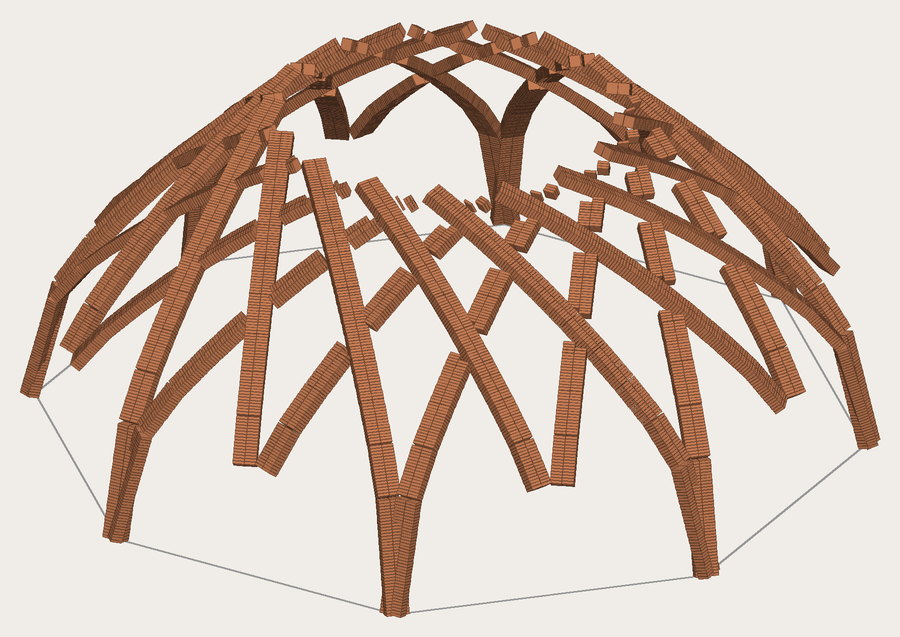
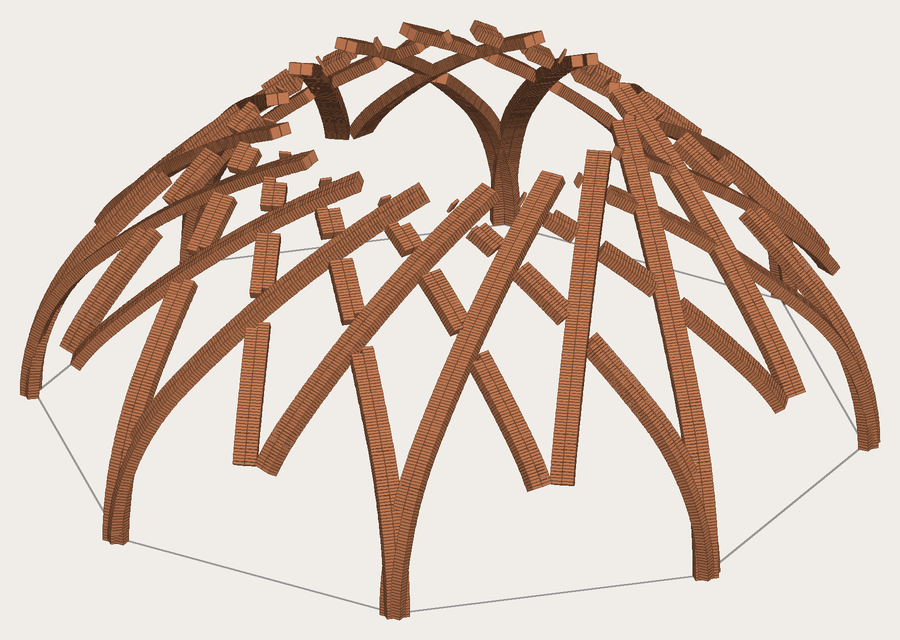
Karbandi bricks: laid on the exact arch (a point every 1 cm, no more straight runs and kinks); crossings woven over/under along each rib like a girih; stranded runs under ~30 cm left out
Claude-Session: https://claude.ai/code/session_01WZz9U86PiQQhB9v6wZTtqs

diff --git a/src/MasonryCore/KarbandiBricks.cs b/src/MasonryCore/KarbandiBricks.cs
@@ -20,6 +20,8 @@ namespace Masonry.Core
         public int Across { get; set; } = 1;
         /// <summary>Pitched ribs: layers of flat bricks (the rib's depth).</summary>
         public int Layers { get; set; } = 2;
+        /// <summary>Crossings alternate over / under along each rib (true), or the lower-numbered rib always passes (false).</summary>
+        public bool Woven { get; set; } = true;
         /// <summary>Joint thickness, mm (gypsum-lime).</summary>
         public double Joint { get; set; } = 8;
     }
@@ -28,6 +30,8 @@ namespace Masonry.Core
     {
         public int Bricks { get; set; }
         public int Mitred { get; set; }
+        /// <summary>Bricks left out because they would be stranded between two cuts.</summary>
+        public int Dropped { get; set; }
         public double RibWidth { get; set; }
         public double RibDepth { get; set; }
         /// <summary>Radial ribs: the joint at the back of the rib where it is most curved (wedge joints), mm.</summary>
@@ -35,7 +39,7 @@ namespace Masonry.Core
 
         public string Describe(Lang lang) => lang == Lang.Fa
             ? L10n.FaDigits($"{Bricks} آجر در تویزهها · مقطع تویزه {RibWidth / 10:0}×{RibDepth / 10:0} سانتیمتر · {Mitred} آجر در محل تقاطع فارسیبُر" + (MaxBackJoint > 0 ? $" · بیشترین درز پشت تویزه {MaxBackJoint:0} میلیمتر" : ""))
-            : $"{Bricks} bricks in the ribs · rib section {RibWidth / 10:0} × {RibDepth / 10:0} cm · {Mitred} bricks mitred at crossings" + (MaxBackJoint > 0 ? $" · widest back joint {MaxBackJoint:0} mm" : "");
+            : $"{Bricks} bricks in the ribs · rib section {RibWidth / 10:0} × {RibDepth / 10:0} cm · {Mitred} bricks mitred at crossings" + (Dropped > 0 ? $" · {Dropped} stranded bricks left out" : "") + (MaxBackJoint > 0 ? $" · widest back joint {MaxBackJoint:0} mm" : "");
     }
 
     /// <summary>
@@ -54,18 +58,20 @@ namespace Masonry.Core
             double width = across * widthUnit + (across - 1) * s.Joint;
             double depth = s.Method == RibMethod.Radial ? f.Length : Math.Max(1, s.Layers) * f.Height + (Math.Max(1, s.Layers) - 1) * s.Joint;
             report.RibWidth = width; report.RibDepth = depth;
-            var ribOf = new List<int>();
+            var ribOf = new List<int>(); var pieceOf = new List<int>(); int pieceId = 0;
 
             for (int ri = 0; ri < k.Ribs.Count; ri++)
             {
                 var rib = k.Ribs[ri];
-                foreach (var piece in rib.Pieces)
+                foreach (var (rt0, rt1) in rib.Ranges)
                 {
+                    pieceId++;
+                    var piece = Karbandi.Sample(k, rib, rt0, rt1, 10);   // the exact arch, a point every 1 cm
                     if (piece.Count < 2) continue;
                     var chord = piece[piece.Count - 1] - piece[0];
                     var w = new Vec3(-chord.Y, chord.X, 0).Unit();          // horizontal, across the rib
                     var inside = (k.Points[rib.A] + k.Points[rib.B]) * 0.5;   // the arch's inside: the middle of its chord, at springing level
-                    var path = new Polyline(Densify(piece, 40));
+                    var path = new Polyline(piece);
                     double L = path.Length;
                     if (s.Method == RibMethod.Radial)
                     {
@@ -85,7 +91,7 @@ namespace Masonry.Core
                                     XAxis = w, YAxis = n, Length = widthUnit, Depth = f.Length, Height = f.Height,
                                     Kind = UnitKind.Header, IsArch = true, Course = i, IndexInCourse = a, U = u, V = ri,
                                 });
-                                ribOf.Add(ri);
+                                ribOf.Add(ri); pieceOf.Add(pieceId);
                             }
                         }
                         // wedge joints: the back of a radial rib opens up where the curve is tight
@@ -112,7 +118,7 @@ namespace Masonry.Core
                                         XAxis = t, YAxis = w, Length = f.Length, Depth = widthUnit, Height = f.Height,
                                         Kind = UnitKind.Stretcher, IsArch = true, Course = layer, IndexInCourse = a, U = u, V = ri,
                                     });
-                                    ribOf.Add(ri);
+                                    ribOf.Add(ri); pieceOf.Add(pieceId);
                                 }
                             }
                         }
@@ -123,11 +129,23 @@ namespace Masonry.Core
             // crossings: the lower-numbered rib stays whole; bricks of the other rib inside it are cut away (mitred joint, K30)
             var keep = Enumerable.Repeat(true, bricks.Count).ToArray();
             double reach = width / 2 + (s.Method == RibMethod.Radial ? f.Height / 2 : f.Length / 2) + s.Joint;   // just past the main rib
+            // woven, like a girih: along each rib its crossings alternate over / under, so every rib passes whole through
+            // about half of them and no piece is left between two cuts in a row
+            var order = new Dictionary<(int rib, KarbandiCrossing x), int>();
+            for (int ri = 0; ri < k.Ribs.Count; ri++)
+            {
+                var rb = k.Ribs[ri]; var dir = rb.To - rb.From; double len2 = Vec3.Dot(dir, dir);
+                var mine = k.Crossings.Where(x => x.RibA == ri || x.RibB == ri)
+                                      .OrderBy(x => Vec3.Dot(new Vec3(x.Point.X, x.Point.Y, rb.From.Z) - rb.From, dir) / Math.Max(1e-9, len2)).ToList();
+                for (int q = 0; q < mine.Count; q++) order[(ri, mine[q])] = q;
+            }
             foreach (var x in k.Crossings)
             {
-                // wall arches always stay whole; otherwise the lower-numbered rib passes
+                // wall arches always stay whole; otherwise over / under alternates (or, mitred, the lower-numbered rib passes)
                 bool wa = k.Ribs[x.RibA].OnWall, wb = k.Ribs[x.RibB].OnWall;
-                int main = wa && !wb ? x.RibA : wb && !wa ? x.RibB : Math.Min(x.RibA, x.RibB);
+                int qa = order.TryGetValue((x.RibA, x), out var oa) ? oa : 0, qb = order.TryGetValue((x.RibB, x), out var ob) ? ob : 0;
+                int main = wa && !wb ? x.RibA : wb && !wa ? x.RibB
+                         : s.Woven ? ((qa + qb) % 2 == 0 ? x.RibA : x.RibB) : Math.Min(x.RibA, x.RibB);
                 int side = main == x.RibA ? x.RibB : x.RibA;
                 var mainDir = Dir(k, main);
                 for (int i = 0; i < bricks.Count; i++)
@@ -137,6 +155,27 @@ namespace Masonry.Core
                     var d = new Vec3(b.Center.X - x.Point.X, b.Center.Y - x.Point.Y, 0);
                     double across2 = Math.Abs(Vec3.Dot(d, new Vec3(-mainDir.Y, mainDir.X, 0)));
                     if (across2 < reach && Math.Abs(b.Center.Z - x.Point.Z) < depth + f.Length) { keep[i] = false; report.Mitred++; }
+                }
+            }
+            // runs of three slices or fewer left between two cuts are not worth building: drop them
+            int minRun = s.Method == RibMethod.Radial ? 6 : 2;
+            double gap = (s.Method == RibMethod.Radial ? f.Height : f.Length) + s.Joint;
+            foreach (var grp in Enumerable.Range(0, bricks.Count).Where(i => keep[i]).GroupBy(i => (pieceOf[i], s.Method == RibMethod.Radial ? 0 : bricks[i].Course)))
+            {
+                var idx = grp.OrderBy(i => bricks[i].U).ToList();
+                if (s.Method == RibMethod.Radial) idx = grp.Where(i => bricks[i].IndexInCourse == 0).OrderBy(i => bricks[i].U).ToList();
+                int st = 0;
+                for (int q = 1; q <= idx.Count; q++)
+                {
+                    if (q < idx.Count && bricks[idx[q]].U - bricks[idx[q - 1]].U < gap * 1.5) continue;
+                    if (q - st < minRun)
+                        for (int z = st; z < q; z++)
+                        {
+                            double u = bricks[idx[z]].U;
+                            for (int i = 0; i < bricks.Count; i++)
+                                if (keep[i] && pieceOf[i] == pieceOf[idx[z]] && Math.Abs(bricks[i].U - u) < 1e-6) { keep[i] = false; report.Dropped++; }
+                        }
+                    st = q;
                 }
             }
             var result = new List<BrickPlacement>();
@@ -155,7 +194,7 @@ namespace Masonry.Core
         /// <summary>Point, tangent and inward normal (towards the arch's inside, i.e. down/in) at arc length u.</summary>
         static (Vec3 p, Vec3 t, Vec3 n) Frame(Polyline path, double u, Vec3 w, Vec3 inside)
         {
-            double e = Math.Min(5, path.Length / 100);
+            double e = Math.Min(15, path.Length / 100);
             var p = path.PointAt(u);
             var t = (path.PointAt(Math.Min(path.Length, u + e)) - path.PointAt(Math.Max(0, u - e))).Unit();
             var n = Vec3.Cross(w, t).Unit();

diff --git a/src/MasonryCore/Karbandi.cs b/src/MasonryCore/Karbandi.cs
@@ -78,6 +78,10 @@ namespace Masonry.Core
         public double Span { get; set; }
         /// <summary>The chord runs along a wall of the base: this rib is the wall arch (tuyzeh in the wall plane).</summary>
         public bool OnWall { get; set; }
+        /// <summary>Chord ends in plan (division points) and the parameter ranges of the built parts along the chord (0..1).</summary>
+        public Vec3 From { get; set; }
+        public Vec3 To { get; set; }
+        public List<(double t0, double t1)> Ranges { get; } = new List<(double, double)>();
         /// <summary>The parts of the rib that are built (inside the base, minus removed rows), in 3D, mm.</summary>
         public List<List<Vec3>> Pieces { get; } = new List<List<Vec3>>();
     }
@@ -290,9 +294,11 @@ namespace Masonry.Core
                     double cutA = k < side1.Count ? side1[k] : t0, cutB = k < side2.Count ? side2[k] : t1;
                     spans = new List<(double, double)> { (t0, cutA), (cutB, t1) };
                 }
+                rib.From = p0; rib.To = p1;
                 foreach (var (a0, a1) in spans)
                 {
                     if (a1 - a0 < 1e-6) continue;
+                    rib.Ranges.Add((a0, a1));
                     var piece = new List<Vec3>();
                     int m = Math.Max(2, (int)Math.Ceiling(s.Samples * (a1 - a0)) + 1);
                     for (int q = 0; q < m; q++)
@@ -322,6 +328,21 @@ namespace Masonry.Core
                 if (d0 < 0.5 && d1 < 0.5) return true;
             }
             return false;
+        }
+
+        /// <summary>The exact rib curve between chord parameters t0 and t1, a point every <paramref name="stepMm"/> along the plan.</summary>
+        public static List<Vec3> Sample(KarbandiResult k, KarbandiRib rib, double t0, double t1, double stepMm = 10)
+        {
+            var d = rib.To - rib.From; double planLen = Math.Sqrt(d.X * d.X + d.Y * d.Y) * (t1 - t0);
+            int m = Math.Max(2, (int)Math.Ceiling(planLen / stepMm) + 1);
+            var o = new List<Vec3>(m);
+            for (int q = 0; q < m; q++)
+            {
+                double t = t0 + (t1 - t0) * q / (m - 1);
+                var p = rib.From + d * t;
+                o.Add(new Vec3(p.X, p.Y, k.Centre.Z + RibArch.Height(k.Arch, t * k.Span, k.Span)));
+            }
+            return o;
         }
 
         static double SignedArea(IReadOnlyList<Vec3> p) { double a = 0; for (int i = 0; i < p.Count; i++) { var q = p[(i + 1) % p.Count]; a += p[i].X * q.Y - q.X * p[i].Y; } return a / 2; }
